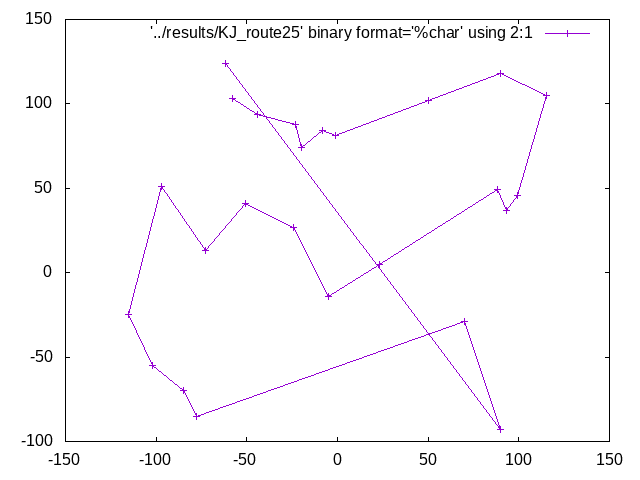
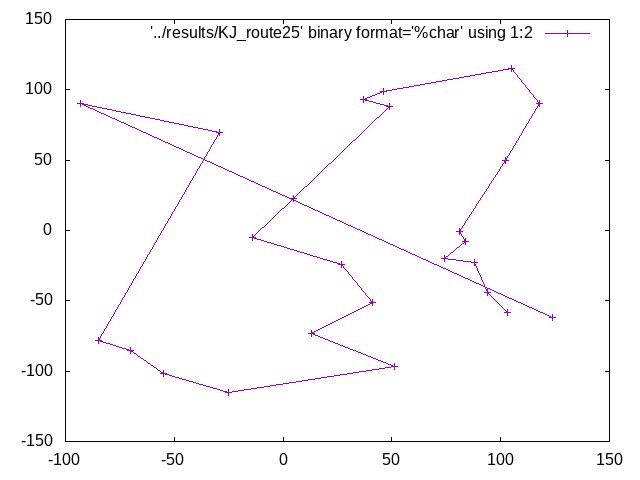
Fixed endianness

diff --git a/util/c/source/genroute.c b/util/c/source/genroute.c
@@ -74,5 +74,5 @@ int main(int argc, char *argv[])
 
     //set term png
     //set output 'test.png'
-    //plot 'route100' binary format='%char' using 2:1 w linespoints
+    //plot 'route100' binary format='%char' using 1:2 w linespoints
 }

diff --git a/README.md b/README.md
@@ -18,7 +18,7 @@ The distances are located in "scores".
 Create a directory with your name and start writing some code. Place your results in "results" then contact kevin to update scores.
 
 ### Rules
-1. A file containing the result should start with 0xc6,0x67 because you are not allowed to change the starting point. All routes have the same starting point.
+1. A file containing the result should start with 0x67,0xc6 because you are not allowed to change the starting point. All routes have the same starting point.
 2. The result file should be the same length as the route.
 3. There should be no duplicate points (This includes both the original route dataset and in the results).
 4. The results should contain the same points as the route, but rearranged in whatever order. No cheating.
@@ -26,35 +26,38 @@ Create a directory with your name and start writing some code. Place your result
 ### Example
 In route25, there are 50 bytes. The first two bytes are the starting point. 
 
-    c667 7369 ff51 ec4a cd29 abba fbf2 46e3
-    c27c f854 e81b 8de7 5a76 632e 9f33 9ac9
-    3266 b70d 5831 5aa3 5d25 1705 e958 d45e
-    b2ab                                   
+    67 c6 69 73 51 ff 4a ec  29 cd ba ab f2 fb e3 46
+    7c c2 54 f8 1b e8 e7 8d  76 5a 2e 63 33 9f c9 9a
+    66 32 0d b7 31 58 a3 5a  25 5d 05 17 58 e9 5e d4
+    ab b2                                           
+                          
 
     Point 0
-    x0 = 0xc6 = -58
-    y0 = 0x67 = 103
+    x0 = 0x67 = 103
+    y0 = 0xc6 = -58
+    
 
     Point 1
-    x1 = 0x73 = 115
-    y1 = 0x69 = 105
-
+    x1 = 0x69 = 105
+    y1 = 0x73 = 115
+    
     ...
 
     Point 24
-    x24 = 0xb2 = -78
-    y24 = 0xab = -85
+    x24 = 0xab = -85
+    y24 = 0xb2 = -78
+    
 
 A soultion to route25 with distance = 1217.516937
 
-    c667 d45e e958 ec4a f854 ff51 3266 5a76
-    7369 632e 5d25 5831 1705 fbf2 e81b cd29
-    b70d 9f33 8de7 9ac9 abba b2ab 46e3 5aa3
-    c27c                                   
+    67 c6 5e d4 58 e9 4a ec  54 f8 51 ff 66 32 76 5a
+    69 73 2e 63 25 5d 31 58  05 17 f2 fb 1b e8 29 cd
+    0d b7 33 9f e7 8d c9 9a  ba ab ab b2 e3 46 a3 5a
+    7c c2                                           
 
 ![Alt text](images/KJ_route25.png?raw=true "KJ_route25")
 
 
-Note: The return to origin (0xc6,0x67) is ommited at the end because it is assumed that the salesman must return home.
+Note: The return to origin (0x67,0xc6) is ommited at the end because it is assumed that the salesman must return home.
 
 
